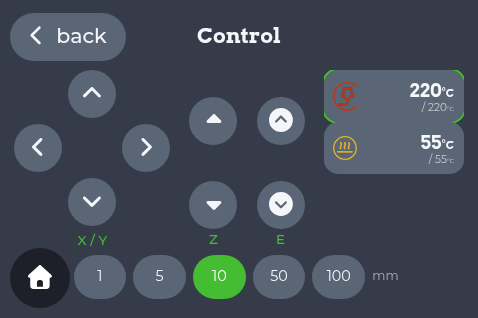
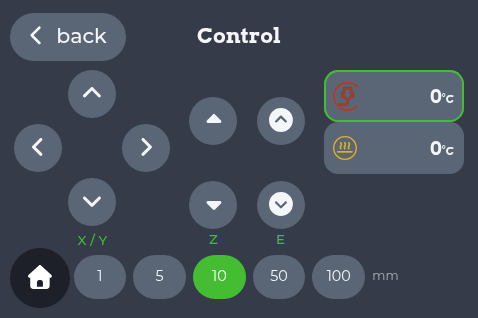
Control: active tool frame no longer clipped; README pictures updated
The selected hotend card used an outline, which was cut off at the
corners; an inset box-shadow stays inside the card.

Changed region(s): [[0.6736, 0.1981, 0.9958, 0.3962], [0.8787, 0.4245, 0.9665, 0.5094]]

diff --git a/src/components/control/control.component.scss b/src/components/control/control.component.scss
@@ -97,7 +97,7 @@ $gap: 6px;
     }
 
     &__field-active {
-      outline: 2px solid var(--primary);
+      box-shadow: inset 0 0 0 2px var(--primary); // inside the card: an outline gets clipped at the edges
     }
 
     &__item {

diff --git a/README.md b/README.md
@@ -16,7 +16,7 @@ All taken on the real 3.5" screen (480×320).
 | --------------------------------------------------------------------------------------------------------------------------------- | ---------------------------------------------------------------------------------------------------------------------------- |
 | ![Boot animation](docs/screenshots/boot.png)<br>**Boot:** the gear turns into the "C"                                             | ![Dashboard](docs/screenshots/dashboard-clock.png)<br>**Dashboard:** clock, date, weather, printer, power (watts, kWh today) |
 | ![Dashboard while printing](docs/screenshots/dashboard.png)<br>**While printing:** progress, live watts and kWh of the print      | ![Night clock](docs/screenshots/night-clock.png)<br>**Night clock:** after 5 min without a tap; first tap only wakes         |
-| ![Music](docs/screenshots/music.png)<br>**Music:** Spotify remote, album cover as live poster                                     | ![Music library](docs/screenshots/music-library.png)<br>**Library:** queue, playlists, liked, recent (names blurred)         |
+| ![Music](docs/screenshots/music.png)<br>**Music:** Spotify remote, album cover as live poster                                     | ![Music library](docs/screenshots/music-library.png)<br>**Library:** queue, playlists, liked, recent         |
 | ![Deck](docs/screenshots/deck.png)<br>**Deck:** your own shortcut buttons                                                         | ![Settings](docs/screenshots/settings.png)<br>**Settings:** night clock, touch calibration, web editor                       |
 | ![Printer while printing](docs/screenshots/printer.png)<br>**Printer:** OctoDash, restyled                                        | ![Print controls](docs/screenshots/print-controls.png)<br>**Print controls:** cancel, pause, adjust                          |
 | ![Control](docs/screenshots/control.png)<br>**Control:** jog X/Y/Z/E, step sizes, temperatures                                    | ![Files](docs/screenshots/files.png)<br>**Files:** slicer thumbnails, ▲ ▼ instead of swiping                                 |
